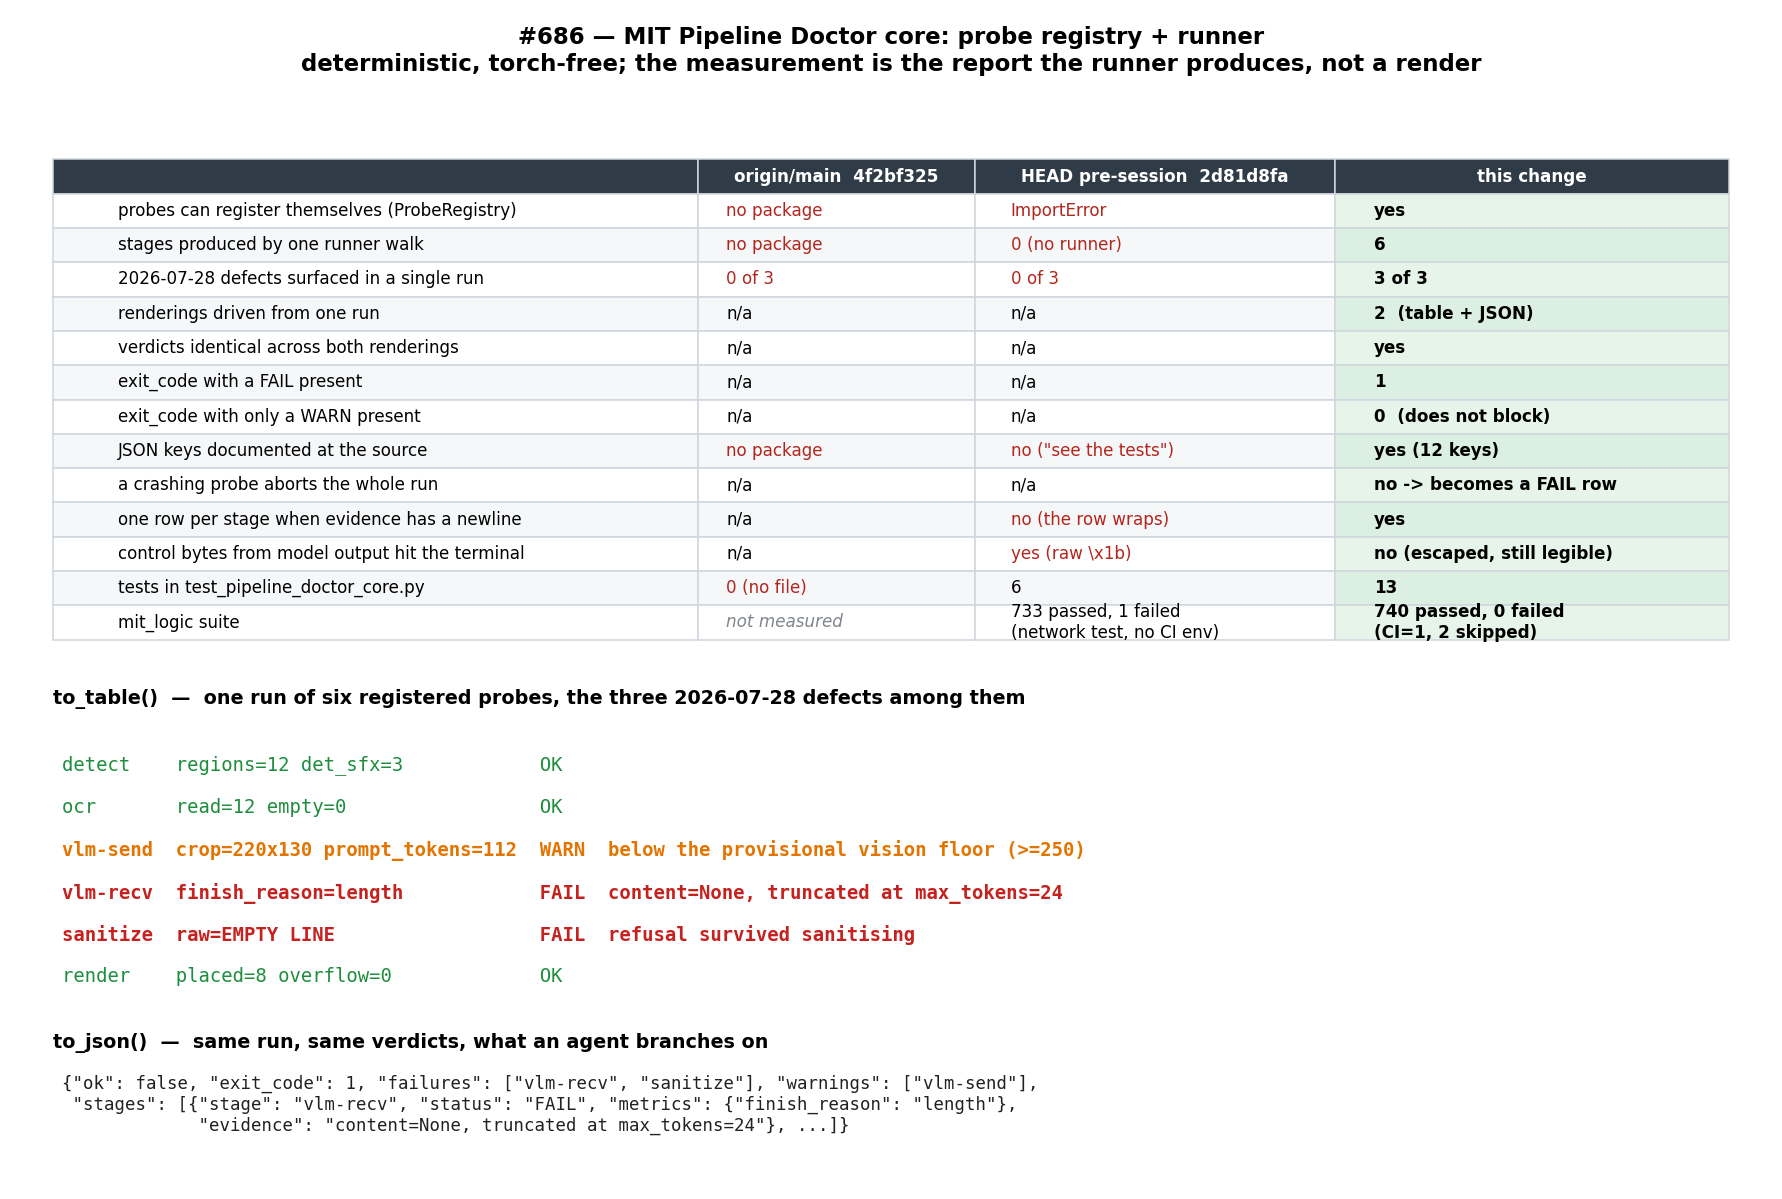
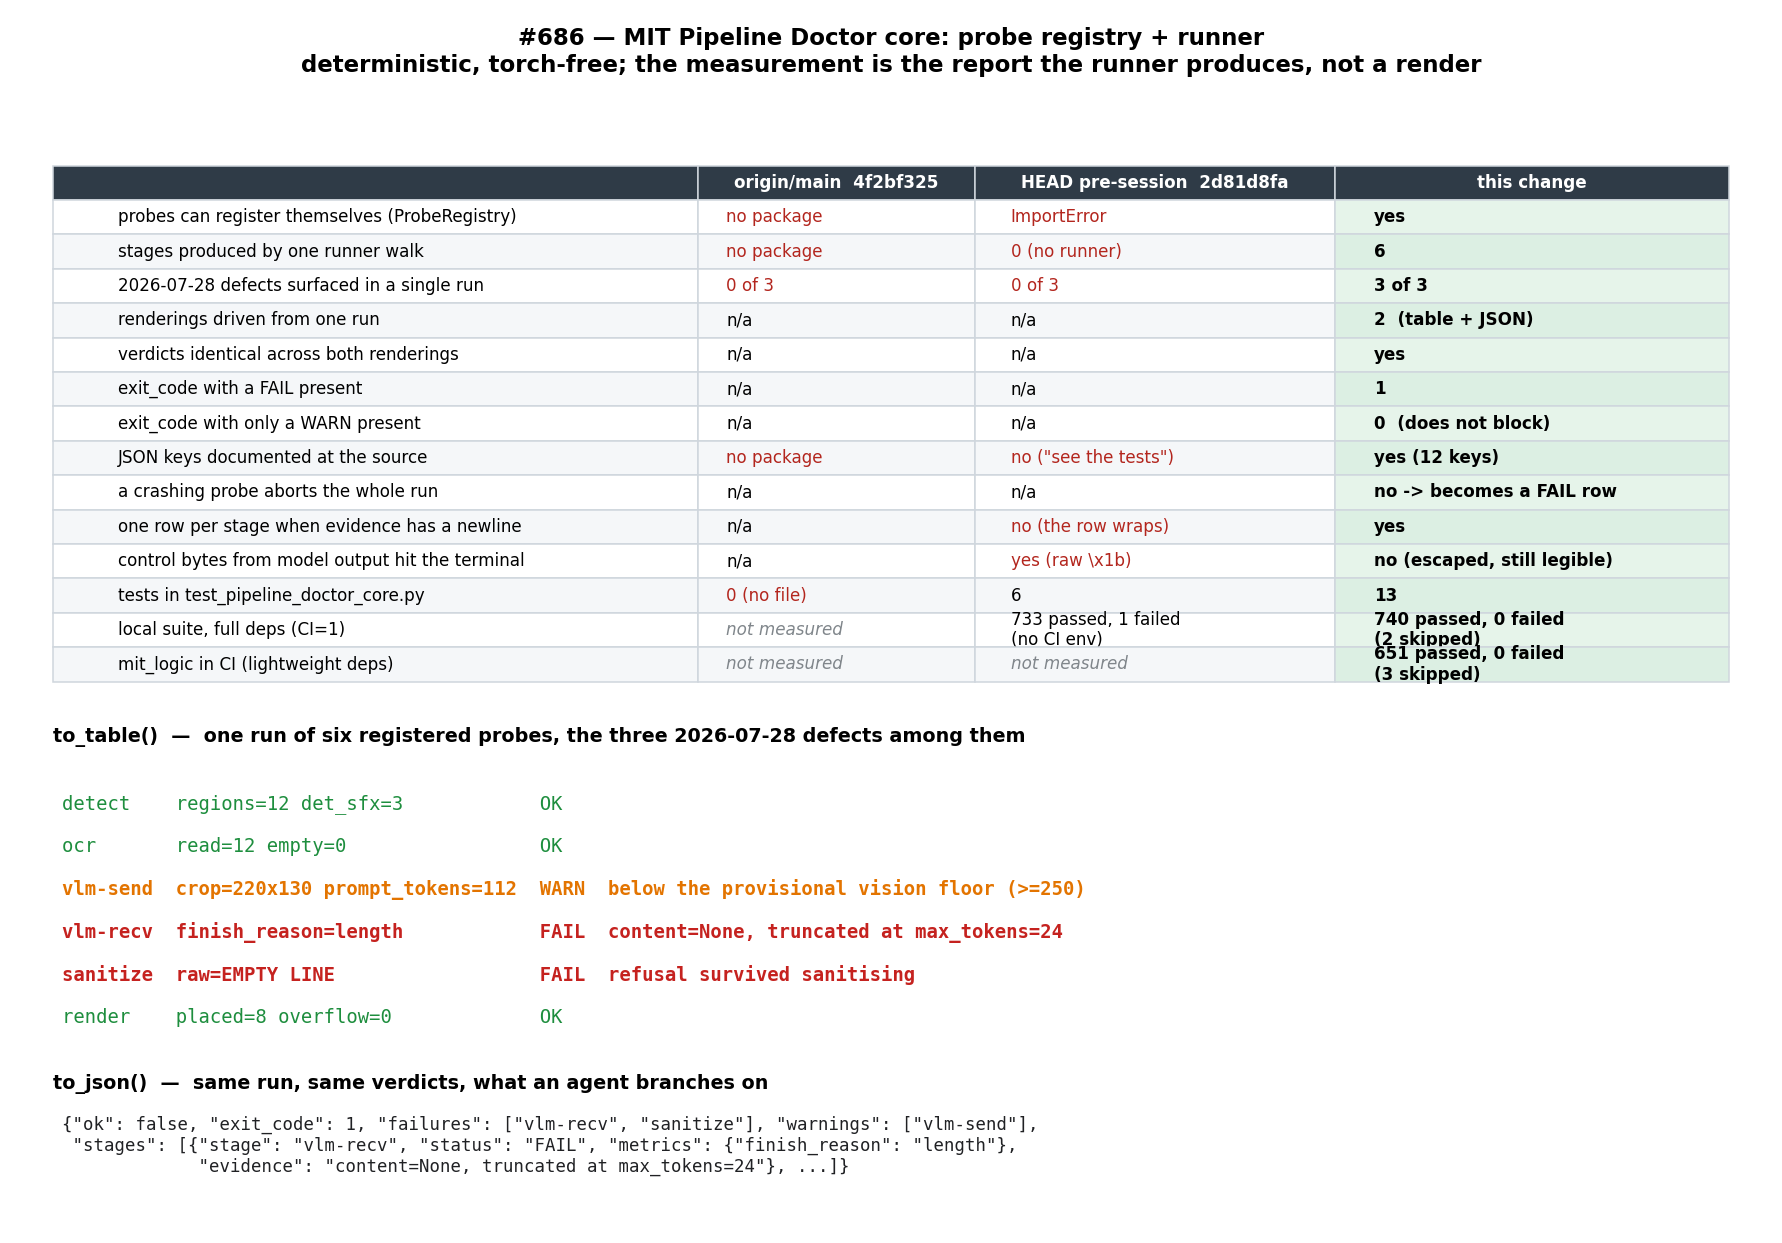
docs(MIT): separate the local suite row from the mit_logic gate row in the #686 benchmark
The report's suite row conflated two different runs. The local venv has MIT's full
dependency set installed so it collects 740 tests; the real `mit_logic` job installs
requirements.txt minus the ML stack and `test/conftest.py` auto-skips the torch-only
modules, so the gate actually runs 651. Quoting the 740 figure against a row labelled
`mit_logic` overstated what the gate checked.

Now two rows, both green, with the local run named as a superset rather than a stricter
check. The CI figure is from run 33361709801 on PR #692 (651 passed, 3 skipped, 0 failed);
the local figure is unchanged (740 passed, 2 skipped, 0 failed). PNG regenerated to match.

Docs only - `git diff --name-only` is the two benchmark artefacts, no code.

Refs #686 #685.

T4-Gates: simplify=n-a (docs only) code-review=ran scrutinize=ran security-review=n-a (no boundary module) verify=ran

diff --git a/docs/reports/benchmarks/2026-08-31-686-pipeline-doctor-core.md b/docs/reports/benchmarks/2026-08-31-686-pipeline-doctor-core.md
@@ -20,7 +20,7 @@ Nothing here calls a GPU, the gateway, or the pipeline. Reproduce with:
 
 ```sh
 cd MIT && pytest test/test_pipeline_doctor_core.py -q   # 13 passed
-cd MIT && CI=1 pytest test/ -q                          # the mit_logic gate: 740 passed, 2 skipped
+cd MIT && CI=1 pytest test/ -q                          # 740 passed, 2 skipped (superset of the gate)
 ```
 
 ## Before → After
@@ -43,7 +43,8 @@ registration**, and this change adds the seam the rest of #685 plugs into.
 | one row per stage when the evidence has a newline | n/a | no (the row wraps) | yes |
 | control bytes from model output reach the terminal | n/a | yes (raw `\x1b`) | no (escaped, still legible) |
 | tests in `test_pipeline_doctor_core.py` | 0 (no file) | 6 | 13 |
-| `mit_logic` suite | *not measured* | 733 passed, 1 failed (network test, no `CI` env) | **740 passed, 0 failed** (`CI=1`, 2 skipped) |
+| local suite (full deps, `CI=1`) | *not measured* | 733 passed, 1 failed (no `CI` env) | **740 passed, 0 failed** (2 skipped) |
+| `mit_logic` in CI (lightweight deps) | *not measured* | *not measured* | **651 passed, 0 failed** (3 skipped) |
 
 `HEAD`'s renderers were already correct; what was missing is the half of the issue title that reads
 **"runner"**. Its own docstring claimed it (*"The Doctor's report model and runner"*) while `probe`,
@@ -57,8 +58,15 @@ report.py:6:    #: A probe's verdict ...                     # comment
 report.py:13:   """One pipeline stage as a probe saw it."""  # docstring
 ```
 
-The `mit_logic` row's `HEAD` and `this change` cells were run under different `CI` settings, which is
-why the failure count moves: `test_online_translators` is `skipif(os.environ.get('CI'))`
+Two suite rows, because they are two different runs and conflating them would overstate what the
+gate checked. The **local** venv has MIT's full dependency set installed, so it collects more than
+the gate does; the real `mit_logic` job installs `requirements.txt` minus the ML stack and
+`test/conftest.py` auto-skips the torch-only modules, so it runs a smaller set — 651 rather than 740.
+Both are green; the local run is a superset, not a stricter check. The CI figure is from
+[run 33361709801](https://github.com/Slow-Inc/MangaDock/actions/runs/33361709801) on PR #692.
+
+The `HEAD` and `this change` local cells were also run under different `CI` settings, which is why the
+failure count moves: `test_online_translators` is `skipif(os.environ.get('CI'))`
 (`test/test_translation.py:42-46`, #618) and exercises live online translators, so it fails locally
 without keys and is skipped in CI. `origin/main`'s suite was **not** run — the honest cell is empty
 rather than back-computed.
@@ -119,8 +127,9 @@ is `torch`, `cv2`, `transformers`, `numpy`, or `manga_translator`. The core impo
   `@doctor.probe('<stage>')`; nothing about them requires the core to learn what a stage is, which is
   what keeps it torch-free.
 - **no-regression:** additive. The diff touches only `MIT/tools/pipeline_doctor/`, its test file, and
-  this report — no pipeline code, matching #686's stated scope. `CI=1 pytest test/ -q` is
-  740 passed / 2 skipped / **0 failed**.
+  this report — no pipeline code, matching #686's stated scope. The `mit_logic` gate is
+  **651 passed / 3 skipped / 0 failed** in CI; the fuller local run is 740 passed / 2 skipped /
+  0 failed.
 - **completeness:** every #686 acceptance clause is exercised by a test, including the one that was
   previously unmet ("a fake probe set produces both renderings from one run").
 - **limitation — a run where every probe declines reports `ok: True, exit_code: 0` with zero stages.**
